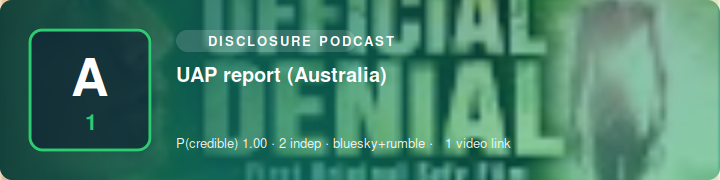
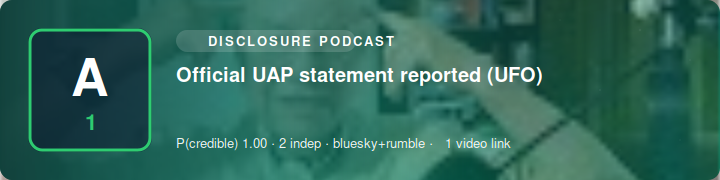
SITREP 2026-07-30 02:30 UTC

diff --git a/index.html b/index.html
@@ -1,1 +1,1 @@
-<!doctype html><meta charset=utf-8><title>Science Bob News — SITREP</title><style>body{font:16px/1.5 system-ui,sans-serif;max-width:760px;margin:2rem auto;padding:0 1rem;color:#111}h1{font-size:1.5rem}h2{margin-top:1.6rem;border-bottom:1px solid #ddd;padding-bottom:.2rem}ul{list-style:none;padding:0}li{margin:.9rem 0}.hl{font-weight:600}.meta{color:#555;font-size:.85rem}.src{font-size:.85rem}.vid{font-size:.85rem;margin-top:.15rem}.card{display:block;max-width:100%;height:auto;border-radius:8px;margin:.4rem 0 .5rem}.upd{background:#fde68a;padding:0 .3rem;border-radius:.2rem;font-size:.75rem}.sub{color:#777;font-size:.85rem}footer{color:#777;font-size:.8rem;margin-top:2rem;border-top:1px solid #ddd;padding-top:.6rem}</style><h1>🛸 Science Bob News</h1><div class="sub">UAP / UFO / USO SITREP · updated 2026-07-30 02:20 UTC · automated</div><h2>Corroborated</h2><ul><li><i>No corroborated reports.</i></li></ul><h2>Developing / unconfirmed</h2><ul><li><img class="card" src="https://n4hy.github.io/sciencebobnews-site/card_d_1.svg" alt="" width="720" height="180"><div class="hl">UAP report (Moon)</div><div class="meta">reliability <b>A1</b> · P(credible)=1.0 · 1 independent source(s) · mastodon</div><div class="src"><a href="https://mastodon.au/@vibewire/117001180457773006">@vibewire@mastodon.au</a></div></li><li><img class="card" src="https://n4hy.github.io/sciencebobnews-site/card_d_2.svg" alt="" width="720" height="180"><div class="hl">UAP report (Early)</div><div class="meta">reliability <b>A1</b> · P(credible)=1.0 · 1 independent source(s) · rumble</div><div class="src"><a href="https://www.youtube.com/watch?v=IyTeV6kko5A">@podcast</a></div><div class="vid">📹 <a href="https://www.youtube.com/watch?v=IyTeV6kko5A">video</a></div></li><li><img class="card" src="https://n4hy.github.io/sciencebobnews-site/card_d_3.svg" alt="" width="720" height="180"><div class="hl">UAP report (McMinnville)</div><div class="meta">reliability <b>A1</b> · P(credible)=1.0 · 1 independent source(s) · rumble</div><div class="src"><a href="https://www.youtube.com/watch?v=7OT6uJ0yzVY">@podcast</a></div><div class="vid">📹 <a href="https://www.youtube.com/watch?v=7OT6uJ0yzVY">video</a></div></li><li><img class="card" src="https://n4hy.github.io/sciencebobnews-site/card_d_4.svg" alt="" width="720" height="180"><div class="hl">UAP whistleblower testimony reported (American)</div><div class="meta">reliability <b>A1</b> · P(credible)=1.0 · 1 independent source(s) · rumble</div><div class="src"><a href="https://www.youtube.com/watch?v=LPtMaGpuK-M">@podcast</a></div><div class="vid">📹 <a href="https://www.youtube.com/watch?v=LPtMaGpuK-M">video</a></div></li><li><img class="card" src="https://n4hy.github.io/sciencebobnews-site/card_d_5.svg" alt="" width="720" height="180"><div class="hl">UAP report (Australia)</div><div class="meta">reliability <b>A1</b> · P(credible)=1.0 · 1 independent source(s) · rumble</div><div class="src"><a href="https://www.youtube.com/watch?v=ZegQhxJrJGo">@podcast</a></div><div class="vid">📹 <a href="https://www.youtube.com/watch?v=ZegQhxJrJGo">video</a></div></li></ul><footer><b>Powered by Science Bob News.</b> Free to use with credit (see LICENSE). Headlines are factual restatements in the engine's own words; click sources for originals. Single-origin reposts collapse to one source; prosaic candidates flagged where offered.</footer>
+<!doctype html><meta charset=utf-8><title>Science Bob News — SITREP</title><style>body{font:16px/1.5 system-ui,sans-serif;max-width:760px;margin:2rem auto;padding:0 1rem;color:#111}h1{font-size:1.5rem}h2{margin-top:1.6rem;border-bottom:1px solid #ddd;padding-bottom:.2rem}ul{list-style:none;padding:0}li{margin:.9rem 0}.hl{font-weight:600}.meta{color:#555;font-size:.85rem}.src{font-size:.85rem}.vid{font-size:.85rem;margin-top:.15rem}.card{display:block;max-width:100%;height:auto;border-radius:8px;margin:.4rem 0 .5rem}.upd{background:#fde68a;padding:0 .3rem;border-radius:.2rem;font-size:.75rem}.sub{color:#777;font-size:.85rem}footer{color:#777;font-size:.8rem;margin-top:2rem;border-top:1px solid #ddd;padding-top:.6rem}</style><h1>🛸 Science Bob News</h1><div class="sub">UAP / UFO / USO SITREP · updated 2026-07-30 02:30 UTC · automated</div><h2>Corroborated</h2><ul><li><img class="card" src="https://n4hy.github.io/sciencebobnews-site/card_c_1.svg" alt="" width="720" height="180"><div class="hl">Official UAP statement reported (UFO)</div><div class="meta">reliability <b>A1</b> · P(credible)=1.0 · 2 independent source(s) · bluesky+rumble</div><div class="src"><a href="https://www.youtube.com/watch?v=YiNznVZ5ciY">@podcast</a> · <a href="https://bsky.app/profile/did:plc:ebjtsbdobdpx3butwiqsnqzi/post/3mrt5555mcg2t">@did:plc:ebjtsbdobdpx3butwiqsnqzi</a></div><div class="vid">📹 <a href="https://www.youtube.com/watch?v=YiNznVZ5ciY">video</a></div></li></ul><h2>Developing / unconfirmed</h2><ul><li><img class="card" src="https://n4hy.github.io/sciencebobnews-site/card_d_1.svg" alt="" width="720" height="180"><div class="hl">UAP report (Moon)</div><div class="meta">reliability <b>A1</b> · P(credible)=1.0 · 1 independent source(s) · mastodon</div><div class="src"><a href="https://mastodon.au/@vibewire/117001180457773006">@vibewire@mastodon.au</a></div></li><li><img class="card" src="https://n4hy.github.io/sciencebobnews-site/card_d_2.svg" alt="" width="720" height="180"><div class="hl">UAP report (Early)</div><div class="meta">reliability <b>A1</b> · P(credible)=1.0 · 1 independent source(s) · rumble</div><div class="src"><a href="https://www.youtube.com/watch?v=IyTeV6kko5A">@podcast</a></div><div class="vid">📹 <a href="https://www.youtube.com/watch?v=IyTeV6kko5A">video</a></div></li><li><img class="card" src="https://n4hy.github.io/sciencebobnews-site/card_d_3.svg" alt="" width="720" height="180"><div class="hl">UAP report (McMinnville)</div><div class="meta">reliability <b>A1</b> · P(credible)=1.0 · 1 independent source(s) · rumble</div><div class="src"><a href="https://www.youtube.com/watch?v=7OT6uJ0yzVY">@podcast</a></div><div class="vid">📹 <a href="https://www.youtube.com/watch?v=7OT6uJ0yzVY">video</a></div></li><li><img class="card" src="https://n4hy.github.io/sciencebobnews-site/card_d_4.svg" alt="" width="720" height="180"><div class="hl">UAP whistleblower testimony reported (American)</div><div class="meta">reliability <b>A1</b> · P(credible)=1.0 · 1 independent source(s) · rumble</div><div class="src"><a href="https://www.youtube.com/watch?v=LPtMaGpuK-M">@podcast</a></div><div class="vid">📹 <a href="https://www.youtube.com/watch?v=LPtMaGpuK-M">video</a></div></li><li><img class="card" src="https://n4hy.github.io/sciencebobnews-site/card_d_5.svg" alt="" width="720" height="180"><div class="hl">UAP report (Australia)</div><div class="meta">reliability <b>A1</b> · P(credible)=1.0 · 1 independent source(s) · rumble</div><div class="src"><a href="https://www.youtube.com/watch?v=ZegQhxJrJGo">@podcast</a></div><div class="vid">📹 <a href="https://www.youtube.com/watch?v=ZegQhxJrJGo">video</a></div></li></ul><footer><b>Powered by Science Bob News.</b> Free to use with credit (see LICENSE). Headlines are factual restatements in the engine's own words; click sources for originals. Single-origin reposts collapse to one source; prosaic candidates flagged where offered.</footer>

diff --git a/sitrep.md b/sitrep.md
@@ -1,8 +1,13 @@
 # 🛸 Science Bob News — UAP / UFO / USO SITREP
-*Updated 2026-07-30 02:20 UTC · auto-generated · sources credited & linked · reliability ratings are automated, not editorial*
+*Updated 2026-07-30 02:30 UTC · auto-generated · sources credited & linked · reliability ratings are automated, not editorial*
 
 ## Corroborated
-_No corroborated reports this cycle._
+
+![Official UAP statement reported (UFO)](https://n4hy.github.io/sciencebobnews-site/card_c_1.svg)
+1. **Official UAP statement reported (UFO)**  
+   reliability **A1** · P(credible)=1.0 · 2 independent source(s) · bluesky+rumble  
+   [@podcast](https://www.youtube.com/watch?v=YiNznVZ5ciY) · [@did:plc:ebjtsbdobdpx3butwiqsnqzi](https://bsky.app/profile/did:plc:ebjtsbdobdpx3butwiqsnqzi/post/3mrt5555mcg2t)  
+   📹 [video](https://www.youtube.com/watch?v=YiNznVZ5ciY)
 
 ## Developing / unconfirmed
 
